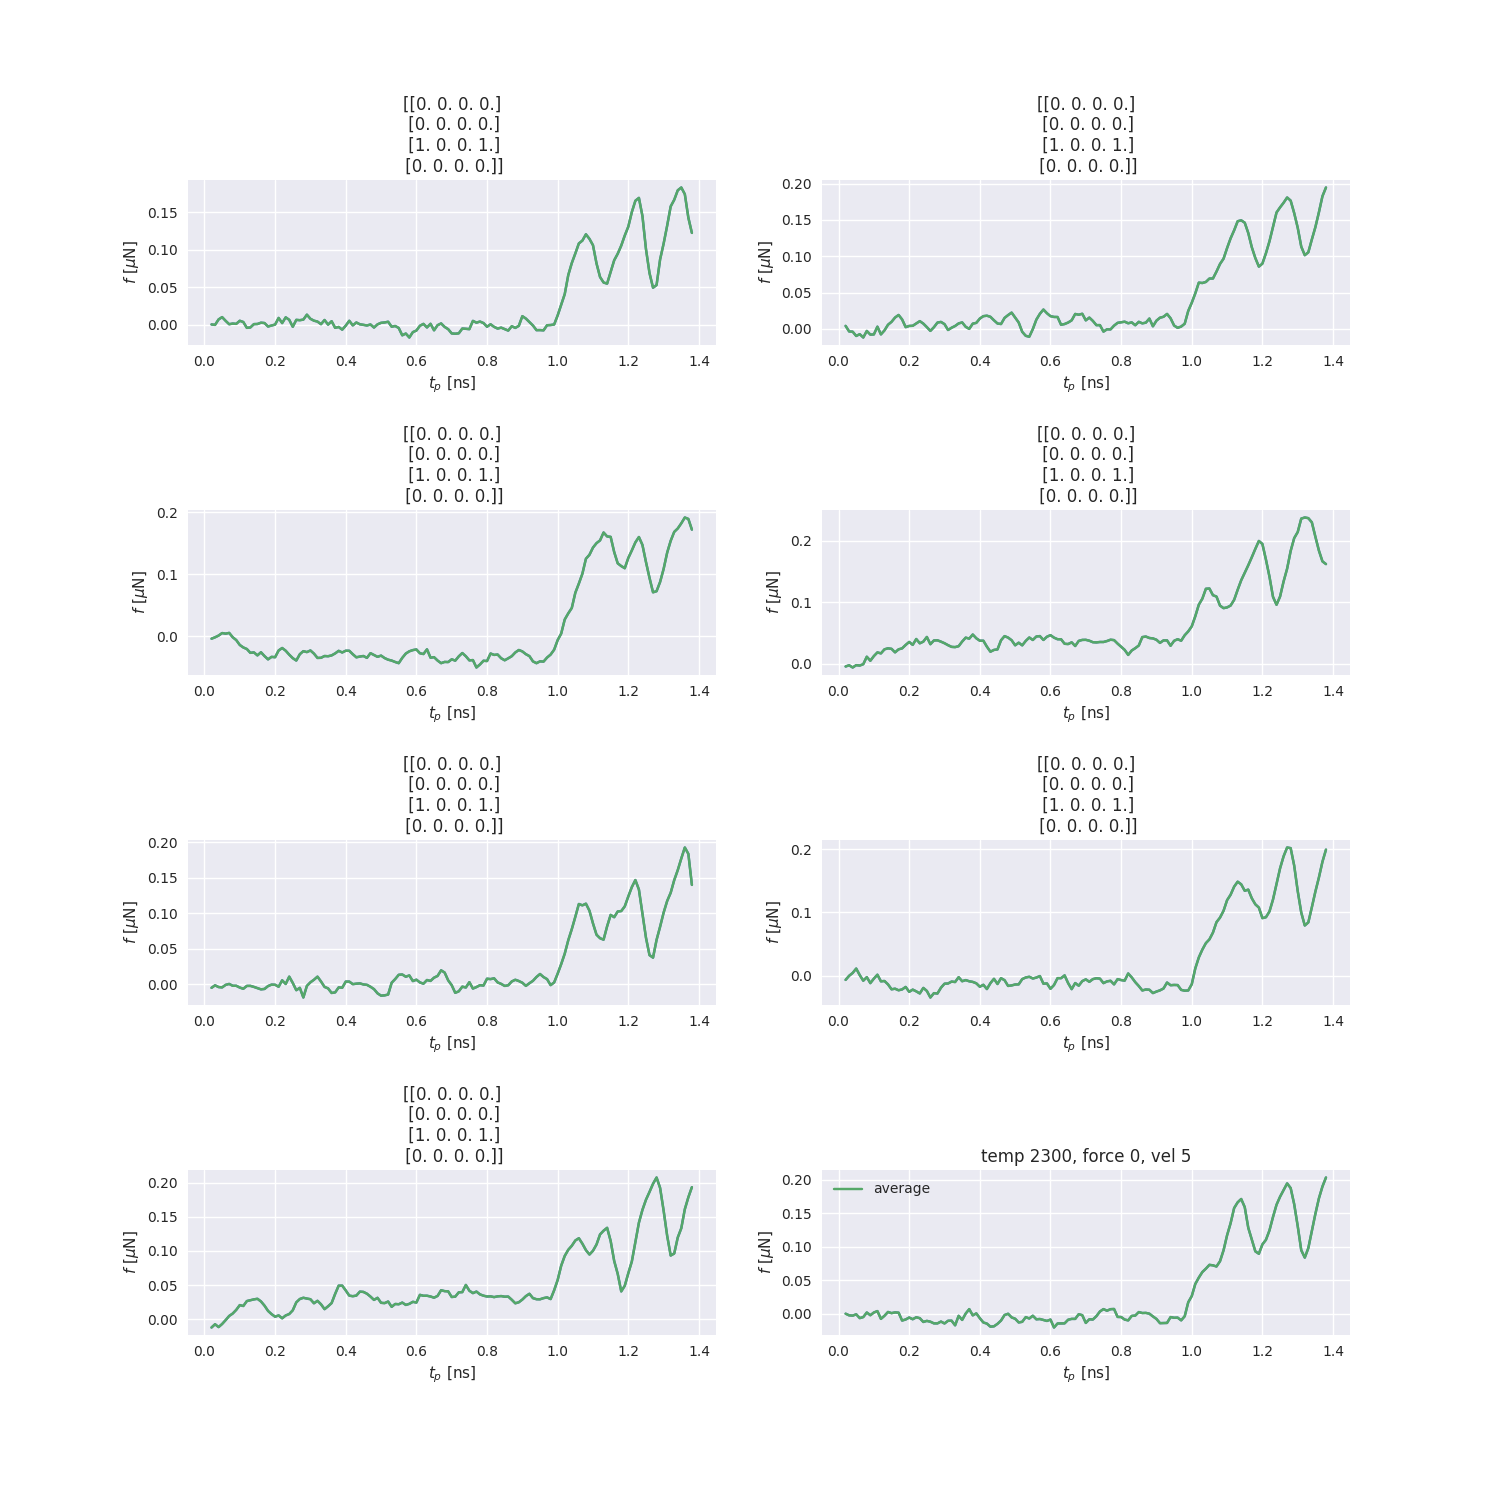
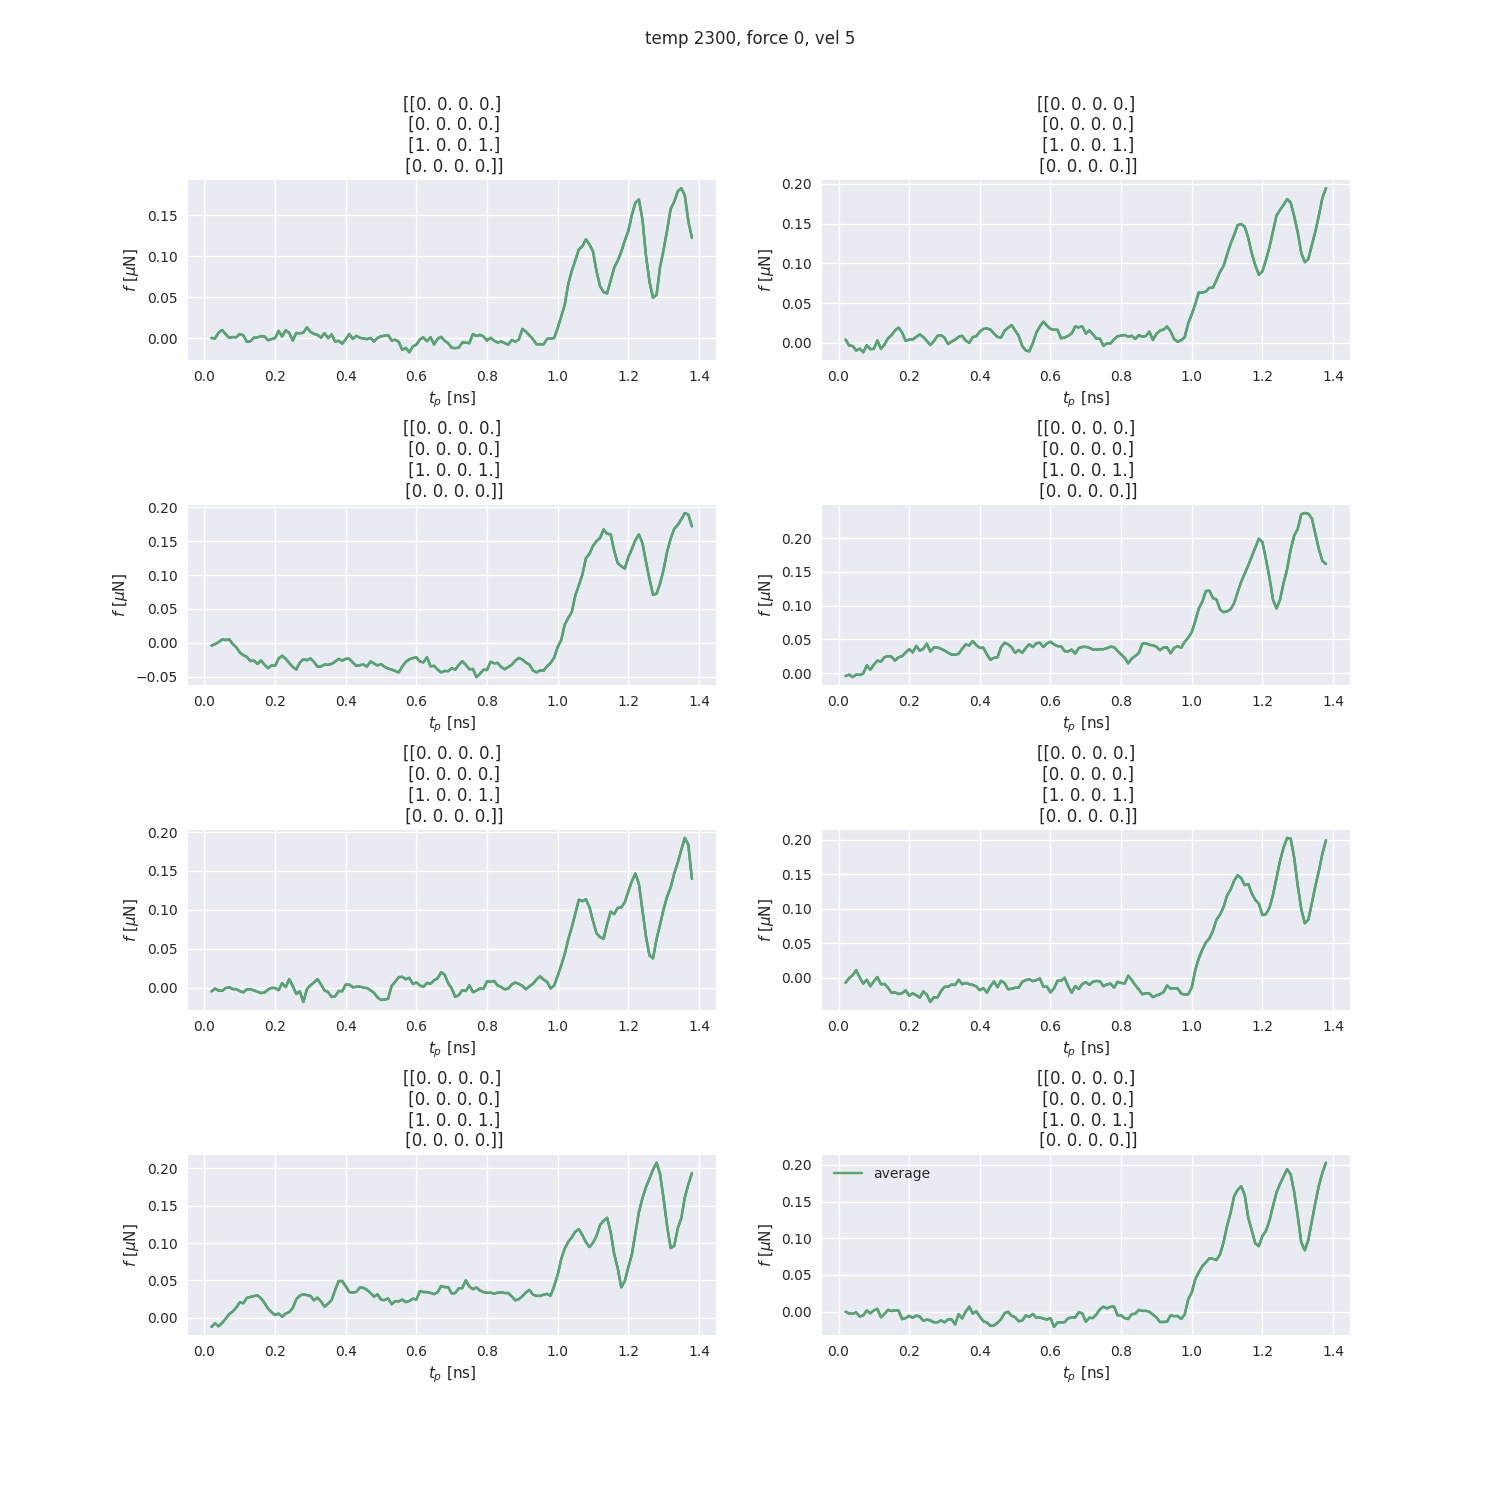
minor adjustments

diff --git a/python/plot/plot_load_curves.py b/python/plot/plot_load_curves.py
@@ -405,8 +405,8 @@ def plot_production(temp, vel, force, uc, asperities, time, orientation, grid, e
         axs[i].set_xlabel(r"$t_p$ [ns]")
         axs[i].set_ylabel(r"$f$ [$\mu$N]")
         axs[i].set_title(aux_dict['erratic'])
-    plt.subplots_adjust(hspace=1)
-    plt.title(f"temp {temp}, force {force}, vel {vel}")
+    plt.subplots_adjust(hspace=0.8)
+    plt.suptitle(f"temp {temp}, force {force}, vel {vel}")
     plt.legend()
     plt.savefig(fig_dir + 'production_varying_initnum_2asp_first10.png')
 
